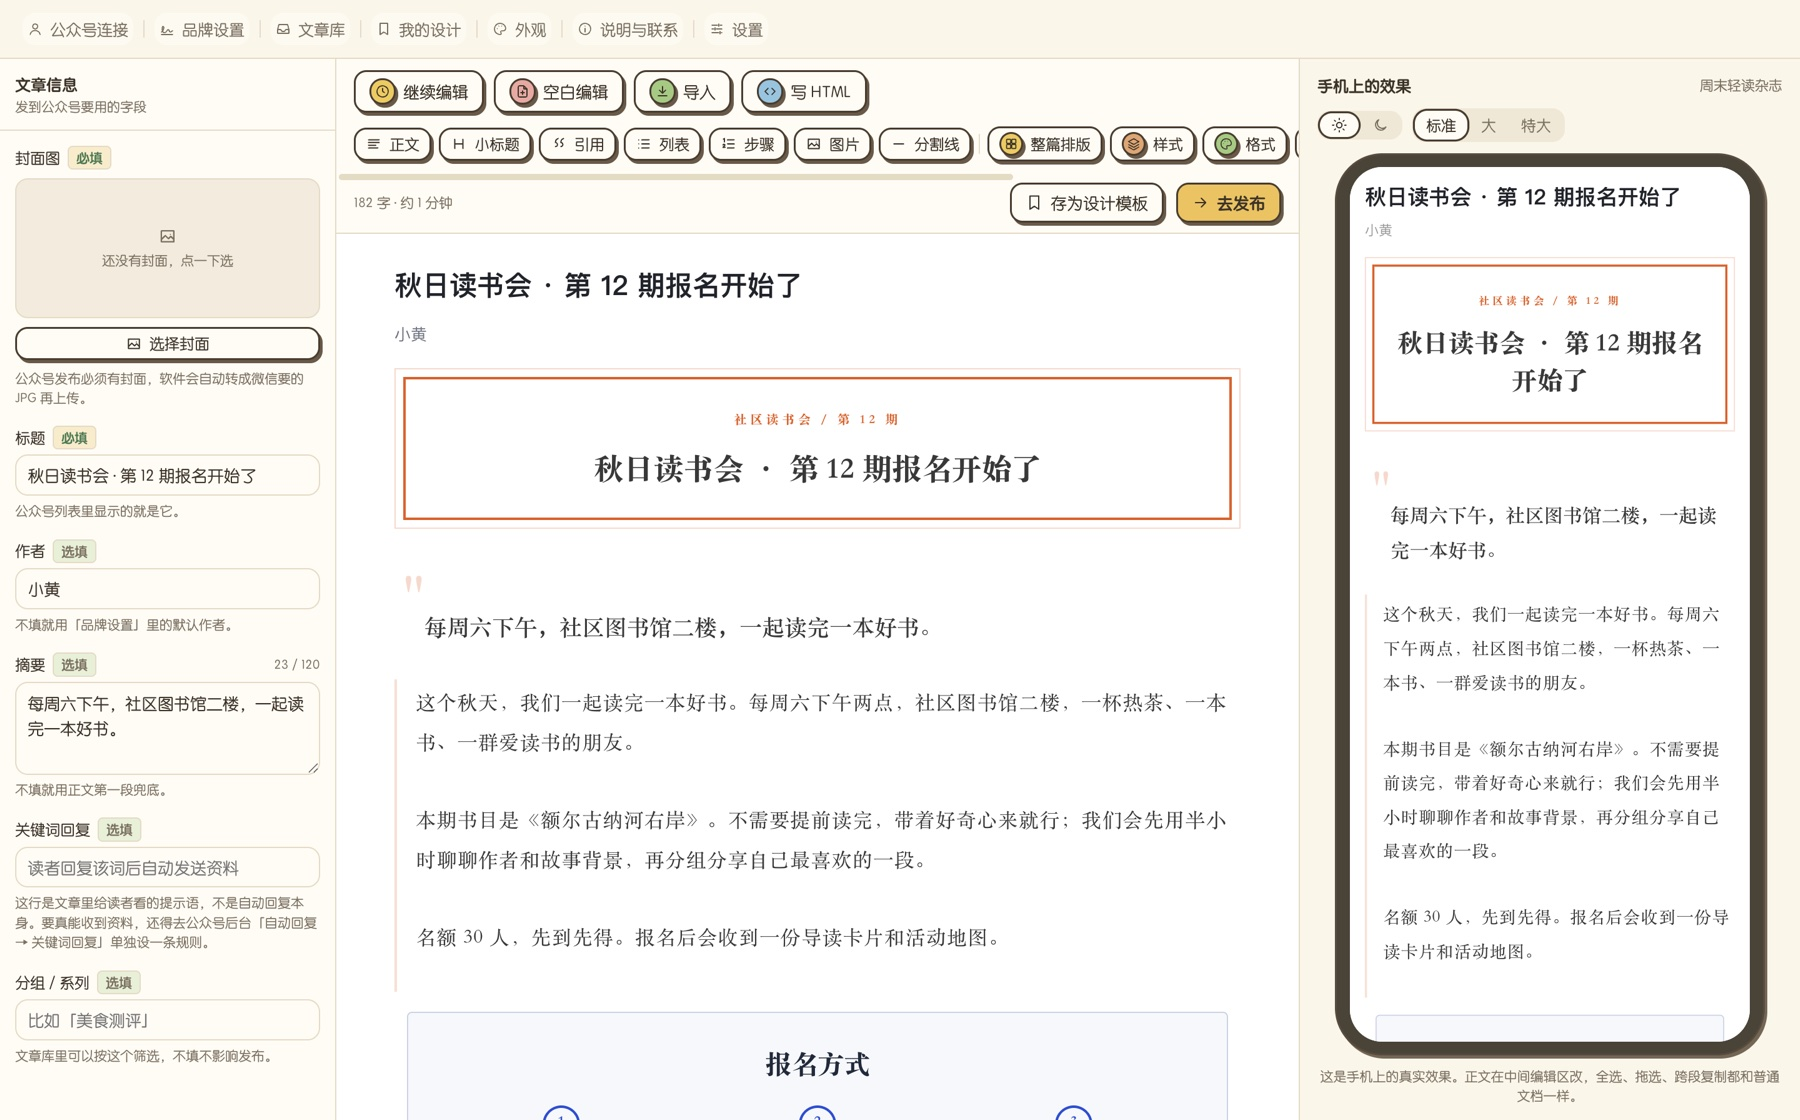
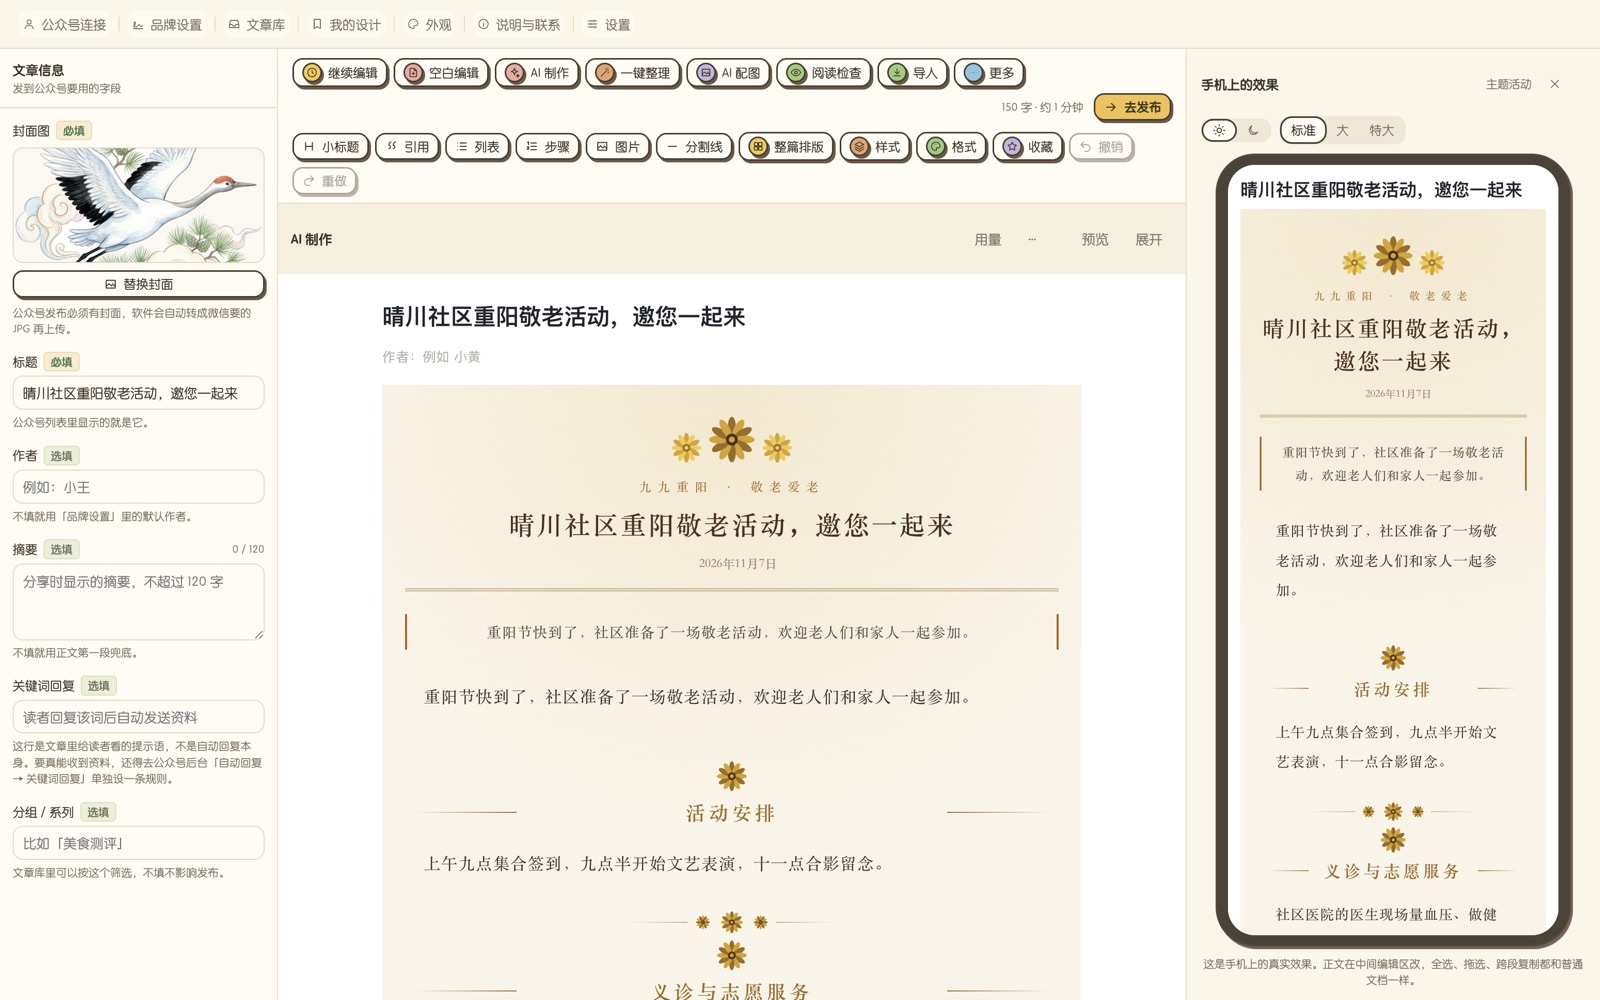
Publish 0.4.0: 六套皮肤、Windows 圆体、按钮使用说明、版本标签

diff --git a/README.md b/README.md
@@ -12,16 +12,21 @@
 - 搜索听得懂意思：写「学校国庆放假通知」「奶茶店开业」「招人」都能找到合适的素材，每条结果写着为什么出现。
 - 「我的素材」：自己存的、别处复制来的、整个文件夹导入的模板、模块和挂件，都能分类收好，点一下插进文章。
 - 新素材由服务器下发，软件打开时自动更新，不用重装（Mac、Windows 都是）。
-- 按块编辑：正文、小标题、引用、列表、表格、图片、排版模块、装饰挂件、HTML 自由块，每一块都能单独调样式。
-- 扫码连接公众号（Mac 版）：走微信官方第三方平台授权，由公众号管理员扫码确认，不需要填写公众号的开发者密码。
-- 发布前检查封面、摘要和公众号兼容性，再保存到公众号草稿箱（Mac 版）；没连公众号时，一键复制排好版的正文和发布字段，到公众号后台粘贴。
-- Windows 版：编辑排版功能和 Mac 版一样，在各种屏幕上自动调整界面大小；还不能连接公众号，写好后复制到公众号后台粘贴发布，扫码连接、存进草稿箱正在开发。
+- 像写文档一样编辑：点空白处就能写，插入落在光标处，粘贴多段自动分段；正文、小标题、引用、列表、表格、图片、排版模块、装饰挂件、HTML 自由块都能单独调样式。
+- 图片选中后拖四个角就能等比放大缩小，手机预览和发到公众号的宽度一样。
+- 鼠标停在按钮上会说明这个按钮做什么、怎么用。
+- 「一键整理」（专业版）：把格式乱的稿子整理好；「AI 配图」「AI 写作辅助」用你自己的密钥（需要含高级功能的激活码）。
+- 扫码连接公众号（Mac、Windows）：走微信官方第三方平台授权，由公众号管理员扫码确认，不需要填写公众号的开发者密码。
+- 发布前检查封面、摘要和公众号兼容性，再保存到公众号草稿箱（Mac、Windows）；没连公众号时，一键复制排好版的正文和发布字段，到公众号后台粘贴。
+- Windows 版：功能和 Mac 版一样，也能扫码连接公众号、存进草稿箱；在各种屏幕上自动调整界面大小。
 
 ## 界面
 
 ![编辑界面：左边填发布信息，中间写正文，右边是手机上的效果](screenshots/editor-window.jpg)
 
-![样式面板：搜索读书会报名，鼠标停在样式上旁边显示效果](screenshots/style-panel.jpg)
+![样式面板：鼠标停在样式上，旁边显示效果](screenshots/style-panel.jpg)
+
+![图片拖四个角等比缩放，右边手机预览同步变化](screenshots/image-resize.jpg)
 
 截图是 Windows 版（和 Mac 版同一套界面），里面是虚构的示例文章。
 
@@ -33,10 +38,10 @@
 
 ## 下载
 
-当前版本：Mac、Windows `0.3.11`（2026-11-07）
+当前版本：Mac、Windows `0.4.0`（2026-11-09）
 
 - 国内下载（推荐）：<https://wx.xiaohuang365.com/download/>
-- GitHub：[v0.3.11 Release](https://github.com/olikahn11/wechat-official-account-assistant-public/releases/tag/v0.3.11)（历史版本都在 [Releases](https://github.com/olikahn11/wechat-official-account-assistant-public/releases) 里）
+- GitHub：[v0.4.0 Release](https://github.com/olikahn11/wechat-official-account-assistant-public/releases/tag/v0.4.0)（历史版本都在 [Releases](https://github.com/olikahn11/wechat-official-account-assistant-public/releases) 里）
 
 两个地址的安装包完全一样。Windows 版从 0.3.8 起也能扫码连接公众号、一键存进草稿箱。旧版 [Windows 0.2.1](https://github.com/olikahn11/wechat-official-account-assistant-public/releases/tag/v0.2.1)（旧版叫「小黄公众号助手」）只支持填写开发者接口连接，新旧两个版本互不影响。
 

diff --git a/DOWNLOAD.md b/DOWNLOAD.md
@@ -1,19 +1,19 @@
 # 下载与安装
 
-## 当前版本：Mac、Windows 0.3.11（2026-11-07）
+## 当前版本：Mac、Windows 0.4.0（2026-11-09）
 
 两个下载地址的安装包完全一样：
 
 - 国内下载（推荐）：<https://wx.xiaohuang365.com/download/>
-- GitHub：[v0.3.11 Release](https://github.com/olikahn11/wechat-official-account-assistant-public/releases/tag/v0.3.11)（历史版本都在 [Releases](https://github.com/olikahn11/wechat-official-account-assistant-public/releases) 里；国内下载页只放最新版）
+- GitHub：[v0.4.0 Release](https://github.com/olikahn11/wechat-official-account-assistant-public/releases/tag/v0.4.0)（历史版本都在 [Releases](https://github.com/olikahn11/wechat-official-account-assistant-public/releases) 里；国内下载页只放最新版）
 
 文件：
 
-- Mac 安装包：`Xiaohuang-Content-Assistant-macOS-0.3.11.dmg`（需要 macOS 14 或更新版本）
-- Mac 备用压缩包：`Xiaohuang-Content-Assistant-macOS-0.3.11.zip`
-- Windows 安装程序：`Xiaohuang-Content-Assistant-Windows-0.3.11-Setup.exe`（需要 Windows 10 或 11，64 位；Windows 7、8 和 32 位系统装不了，安装时会提示）
-- Windows 免安装压缩包：`Xiaohuang-Content-Assistant-Windows-0.3.11.zip`
-- 文件校验：`SHA256SUMS-0.3.11.txt`
+- Mac 安装包：`Xiaohuang-Content-Assistant-macOS-0.4.0.dmg`（需要 macOS 14 或更新版本）
+- Mac 备用压缩包：`Xiaohuang-Content-Assistant-macOS-0.4.0.zip`
+- Windows 安装程序：`Xiaohuang-Content-Assistant-Windows-0.4.0-Setup.exe`（需要 Windows 10 或 11，64 位；Windows 7、8 和 32 位系统装不了，安装时会提示）
+- Windows 免安装压缩包：`Xiaohuang-Content-Assistant-Windows-0.4.0.zip`
+- 文件校验：`SHA256SUMS-0.4.0.txt`
 - 用户协议：[查看](https://xiaohuang365.com/software/wechat/terms.html)
 
 ## Mac 安装
@@ -49,5 +49,5 @@ Windows 这一版能写文章、套模板、插模块和挂件、导入 Word / P
 
 - 只从本仓库 Release 页面、上面的国内下载地址，或「拾用集」公众号给的入口下载。
 - 安装前可以核对文件：Mac 在「终端」里运行 `shasum -a 256 下载的文件`，Windows 在 PowerShell 里运行 `Get-FileHash 下载的文件`，
-  结果应和 `SHA256SUMS-0.3.11.txt` 里的一致（Windows 显示的是大写字母，大小写不同没关系）。
+  结果应和 `SHA256SUMS-0.4.0.txt` 里的一致（Windows 显示的是大写字母，大小写不同没关系）。
 - 不要向任何人发送公众号的登录密码、开发者密码（AppSecret）或验证码。

diff --git a/CHANGELOG.md b/CHANGELOG.md
@@ -1,5 +1,13 @@
 # 更新日志
 
+## 0.4.0 - 2026-11-09（Mac、Windows）
+
+- 六套界面皮肤可选：绘本、绘本·细线、素雅、文具行、工作台、暖场；在「外观」里切换。
+- Windows 版自带圆体字，界面字形和 Mac 一致，不再用系统默认字体。
+- 鼠标停在按钮上，说明里写清楚这个按钮做什么、怎么用和小技巧，面板和对话框里的按钮也有。
+- 「说明与联系」里显示当前是免费版还是专业版（专业版带到期日）。
+- 版本号改成三段、每段一位数，新旧一眼分清。
+
 ## 0.3.11 - 2026-11-07（Mac、Windows）
 
 - 图片选中后拖四个角就能等比放大缩小，不会拉变形；手机预览和发到公众号的宽度一样，能撤销。
